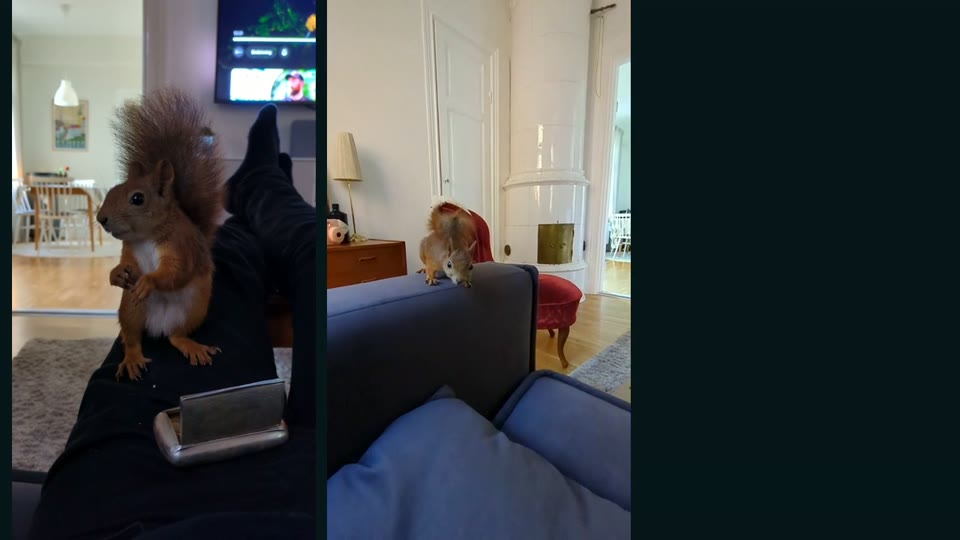
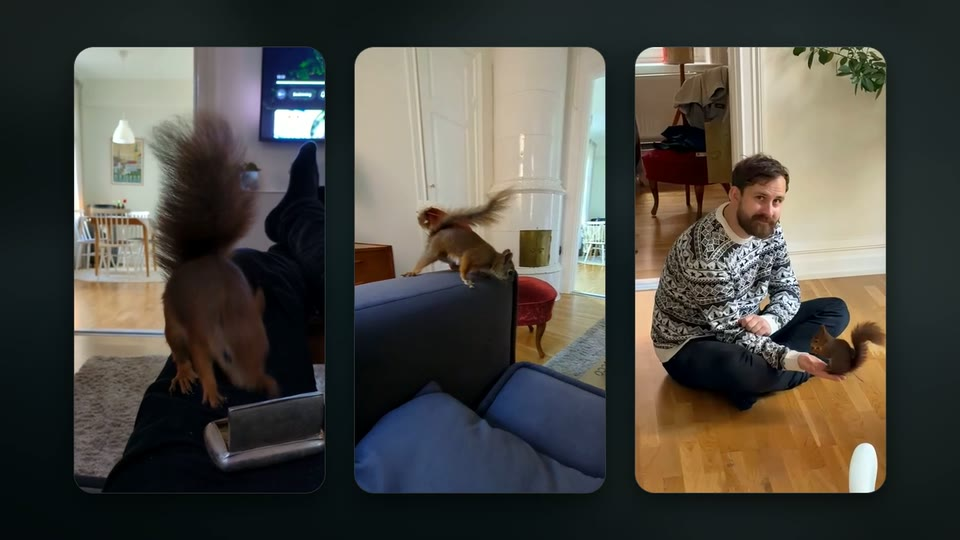
Film: LED-skärmen i mitten av 0.4 och korten i 1.2
0.4 lägger delarna och LED-skärmen i ett rutnät 7 x 7 med skärmen i
mitten. Skärmen vaknar uppe på toppen, golvets pixlar runt den tänds och
kameran dyker rakt ner i den inför 0.5. Klippet från 0.3 är fortfarande
osynligt. 1.2 visar de tre mobilklippen som kort med rundade hörn, skugga
och tunn kant (verktyg/tre_rutor.py), med ett mjukt klick per kort.

diff --git a/trailer/storyboard/storyboard.html b/trailer/storyboard/storyboard.html
@@ -134,7 +134,7 @@ td:first-child { color: var(--fg); white-space: nowrap; font-family: var(--mono)
 <div class="wrap">
 
 <header class="top">
-  <div class="eyebrow">Storyboard v25 · Lennart släpper nöten</div>
+  <div class="eyebrow">Storyboard v26 · LED-skärmen i mitten</div>
   <h1>Projekt <span>Lennart</span></h1>
   <p class="lead">En helt orimlig mängd teknik, redovisad med fullt allvar, för att en ekorre ska få äta sin nöt i fred.</p>
   <div class="facts">
@@ -387,13 +387,13 @@ const ACTS = [
   ['0.1','0:00','5 s','Skärmen','o1','cg','Börja lugnt och seriöst. Väcka en fråga innan något har förklarats.','En liten skärm i en vit ram på röd träpanel: VÄNTAR PÅ BESÖKARE…','85 mm. Börjar snett från sidan, lätt lutad, och sveper i en båge runt fasaden medan den rätar upp sig.','Varmt släpljus från höger, svag kall fyllning.','Kameran rör sig, skärmen står still.','Samma båge fortsätter uppåt längs fasaden tills gluggen ligger där skärmen låg.','"Okej, så det här är ett helt vanligt autonomt säkerhetssystem,"','Svagt elektriskt brum. Dämpat fågelkvitter.','3D från GLB + skarm-vantar.png'],
   ['0.2','0:05','2,6 s','Gluggen och linsen','o2','cg','Systemets öga.','Den runda gluggen i gaveln, med kameramodulen där inne.','Kameran åker rakt in mot linsen tills det mörka glaset fyller bilden.','En liten kall reflex i glaset.','Inåkning som accelererar.','Klipp i mörkret till mekaniken. 0.3 börjar med doseringshjulets cirkel stor mitt i bild, där gluggen var.','"med artspecifik åtkomstkontroll,"','Ett lågt klick, som en slutare.','3D från GLB'],
   ['0.3','0:08','2,6 s','Nötens väg','o3','cg','Visa mekaniken som ett urverk, utan att visa huset.','Mekaniken i full färg: magasinet med nötter, hjulet, rännan, luckan och skålen. Resten av huset är mörkt glas där bara kanterna skymtar, och huset står på samma släckta LED-golv som i 0.4. Luckan fälls upp, hjulet vrider fram en hasselnöt och den rullar ner i skålen.','Låst vid hjulet: kameran rullar med doseringshjulet, så att hjulet och nöten står still medan magasinet och glashuset snurrar runt dem. När nöten släpper rätar bilden upp sig och följer nöten ner i skålen.','Varm nyckel på mekaniken. Glaset och bakgrunden i samma gröna som skärmen och golvet.','Luckan öppnas först, sedan vrids hjulet 130° och nöten rullar.','Osynligt klipp: kameran tiltar ner mot golvet tills bara pixlarna syns och börjar stiga. 0.4 tar vid i exakt samma läge, så att det känns som en enda kameraåkning.','"motoriserad precisionsdosering"','Servosurr. Nöten som rullar och landar.','3D från GLB. Ny version, v6 (variant H, låst vid hjulet).'],
-  ['0.4','0:10','4,3 s','Fyrtioåtta delar','o4','cg','Storleken på vansinnet, utan att avslöja formen.','Alla fyrtioåtta delar ligger platt i ett rutnät, åtta gånger sex, en del per ruta. Golvet är en enorm släckt LED-skärm med samma mörkgröna pixlar som skärmen i huset. Husets stomme ligger på rygg som en del bland de andra. Man ser mängden men kan inte pussla ihop huset.','Tar vid exakt där 0.3 slutade, tätt över golvets pixlar mitt i rutnätet, stiger rakt upp och fortsätter vrida sig tills hela rutnätet syns.','Varmt sidoljus, kall fyllning. Golvets pixlar glöder svagt.','En enda jämn åkning. Delarna ligger still.','Kameran dyker rakt ner mot en tom ruta tills golvets pixlar fyller bilden. De blir pixlarna på skärmen i 0.5, som tänds medan kameran backar ut.','"och fyrtioåtta väldigt noggrant tillverkade komponenter. Inget konstigt."','En låg ton växer.','3D från GLB + delar.json. Ny version, v7 (variant D).'],
+  ['0.4','0:10','4,3 s','Fyrtioåtta delar','o4','cg','Storleken på vansinnet, utan att avslöja formen.','Alla fyrtioåtta delar ligger platt i ett rutnät, sju gånger sju, en sak per ruta. I mittenrutan ligger LED-skärmen. Golvet är en enorm släckt LED-skärm med samma mörkgröna pixlar som skärmen i huset. Husets stomme ligger på rygg som en del bland de andra. Man ser mängden men kan inte pussla ihop huset.','Tar vid exakt där 0.3 slutade, tätt över golvets pixlar i hörnet intill mittenrutan, stiger rakt upp och fortsätter vrida sig tills hela rutnätet syns med LED-skärmen i mitten.','Varmt sidoljus, kall fyllning. Golvets pixlar glöder svagt. När skärmen vaknar tänds golvets pixlar runt den i ett mjukt grönt sken.','En enda jämn åkning. Delarna ligger still.','Kameran dyker rakt ner i LED-skärmen tills dess mörka pixlar fyller bilden. De blir pixlarna på skärmen i 0.5, som tänds medan kameran backar ut.','"och fyrtioåtta väldigt noggrant tillverkade komponenter. Inget konstigt."','En låg ton växer.','3D från GLB + delar.json. Ny version, v7 (variant D).'],
   ['0.5','0:15','3 s','Verifierar','o5','cg','Pausen.','Tätt på skärmen i sin vita ram mot röd panel, som i första bilden. Skärmen visar VERIFIERAR…','Långsam inåkning rakt mot skärmen.','Lågt varmt ljus, svag kall fyllning.','Nästan stilla.','Kameran åker in i texten tills skärmens pixlar fyller bilden, och skärmen släcks. Titeln tänds i samma pixelrutnät.','Tystnad, två sekunder.','Tre korta pip. Tvärt tyst.','3D från GLB + skarm-verifierar.png. Ny version, v4.'],
   ['0.6','0:18','2,8 s','Titel','','title','Leverera skämtet och namnet.','Svart. PROJEKT LENNART i skärmens typsnitt, med ett ekollon i pixlar till vänster.','Stilla.','—','Bokstäverna tänds en i taget.','Rakt klipp på musikens slag till balkongen i juli.','"Det vaktar nötter."','Tystnad under repliken.','Grafik'],
  ]],
  ['1 · Lennart', '0:20–0:42', 'Klippt av ditt filmmaterial, kortas till fyra klipp', [
   ['1.1','0:20','5,5 s','Balkongen i juli','a1_1','real','Etablera platsen och den nya grannen.','Uteplatsen en sommardag. Lennart springer längs räcket.','Mobilfilm beskuren till liggande. Svag inzoomning.','Mulet dagsljus.','Lennart rör sig längs räcket.','Rakt klipp i röstens paus.','"Men lite bakgrund först. I somras började en ekorre hälsa på hemma hos oss."','Sommarljud, lätt musik börjar.','PXL_20260702'],
-  ['1.2','0:26','5 s','Nästan varje dag','a1_2','real','Visa att besöken blev vardag.','Tre stående rutor som dyker upp en i taget: soffryggen, knät, golvet.','Tre mobilklipp i höjdformat sida vid sida.','Blandat inomhusljus.','En ruta på "då och då", två till på "nästan varje dag".','Rakt klipp till närbilden.','"Först bara då och då, men numera dyker han upp nästan varje dag."','Ett mjukt klick per ruta.','PXL_20260708, 1000007512, VID-20261114'],
+  ['1.2','0:26','5 s','Nästan varje dag','a1_2','real','Visa att besöken blev vardag.','Tre stående kort med rundade hörn, mjuk skugga och tunn ljus kant som glider upp ett i taget: soffryggen, knät, golvet. Bakom dem en mörk, oskarp bakgrund i filmens blågröna ton.','Tre mobilklipp i höjdformat sida vid sida.','Blandat inomhusljus.','En ruta på "då och då", två till på "nästan varje dag".','Rakt klipp till närbilden.','"Först bara då och då, men numera dyker han upp nästan varje dag."','Ett mjukt klick per ruta.','PXL_20260708, 1000007512, VID-20261114'],
   ['1.3','0:31','3 s','Namnet','a1_3','real','Ge honom ett namn och ett ansikte.','Extrem närbild: han nosar på kameran. Namnskylt i skärmens stil.','Beskuren närbild med svag inzoomning.','Dagsljus från fönster.','Skylten tänds på "Lennart".','Rakt klipp.','"Vi gav honom namnet Lennart."','Ett klingande ljud när skylten tänds.','PXL_20260708 + grafik'],
   ['1.4','0:34','8 s','Nötter och vatten','a1_4','real','Visa omsorgen. Sätta upp fatet som fåglarna snart tömmer.','Han sitter på någons ben och äter.','Beskuren till liggande, svag inzoomning.','Mjukt inomhusljus.','Han äter.','Lennart öppnar tassarna och släpper nöten. Kameran tiltar snabbt ner efter den, bilden glider ut i skuggan och nöten faller vidare genom mörkret. Klippet sker mitt i fallet, och i 2.1 landar samma nöt bland de andra på fatet. Sista sekunden, där tassarna öppnas, är AI-genererad med Higgsfield (Seedance 2.5) från en ruta ur mobilklippet. I tilten tar en renderad hasselnöt över.','"Redan från första besöket har vi bjudit på nötter, och sen dess står det alltid käk och vatten utanför."','Knaprande.','1000007512'],
  ]],
@@ -432,8 +432,8 @@ const ACTS = [
 ];
 // nr -> kort notering om vilken version filmen är
 const FILM = {
- "0.1": "Ny version, v5: skärmen har synliga pixlar.", "0.2": "Ur öppning v2, godkänd bild. Din provinspelning som röst.", "0.3": "Ny version, v6: låst vid hjulet, grön färgvärld, landar på golvet i ett osynligt klipp till 0.4.", "0.4": "Ny version, v8 (variant D): rutnät på ett golv som är en LED-skärm. Börjar i pixlarna där 0.3 slutar och dyker in i pixlarna igen inför 0.5.", "0.5": "Ny version, v5: pixlar, punkter på pipen, inåkning i pixlarna.", "0.6": "Ny version: titeln med ekollonet, nu 2,8 s. Musiken börjar 1 s senare så att den ligger kvar mot resten.",
- "1.1": "Ur del 1 v1, klippt efter din inspelning.", "1.2": "Ur del 1 v1, klippt efter din inspelning.", "1.3": "Ur del 1 v3. Namnskylten kommer tidigare och ligger kvar in i nästa klipp.", "1.4": "Ur del 1. Nytt slut: Lennart öppnar tassarna och släpper nöten (genererat med Higgsfield), kameran följer den ner till 2.1.",
+ "0.1": "Ny version, v5: skärmen har synliga pixlar.", "0.2": "Ur öppning v2, godkänd bild. Din provinspelning som röst.", "0.3": "Ny version, v6: låst vid hjulet, grön färgvärld, landar på golvet i ett osynligt klipp till 0.4.", "0.4": "Ny version, v9: rutnätet är sju gånger sju med LED-skärmen i mitten. Börjar i golvets pixlar där 0.3 slutar, stiger, skärmen vaknar och kameran dyker rakt ner i den inför 0.5.", "0.5": "Ny version, v5: pixlar, punkter på pipen, inåkning i pixlarna.", "0.6": "Ny version: titeln med ekollonet, nu 2,8 s. Musiken börjar 1 s senare så att den ligger kvar mot resten.",
+ "1.1": "Ur del 1 v1, klippt efter din inspelning.", "1.2": "Ny presentation: korten byggs med film/verktyg/tre_rutor.py. Samma klipp och tider som förut, nu med ett mjukt klick per kort.", "1.3": "Ur del 1 v3. Namnskylten kommer tidigare och ligger kvar in i nästa klipp.", "1.4": "Ur del 1. Nytt slut: Lennart öppnar tassarna och släpper nöten (genererat med Higgsfield), kameran följer den ner till 2.1.",
  "2.1": "Ny version, v8: nöten från 1.4 faller ner och landar på fatet.", "2.2": "Ur v3, oförändrad.", "2.3": "Ur v3, oförändrad.", "2.4": "Ur v3, oförändrad.", "2.5": "Ny version, v5: nej-signalen slår ner i fatet, som snurrar ut med ett porslinsklirr.", "2.6": "Ny version, v6: nötterna vilar, kameran lyfter i slutet.",
  "6.1": "Ny version, v2: byggklippen i hörnen, i takt med musiken (platshållare).", "6.2": "Ny version, v2: byggklippen går när kameran åker nära (platshållare).", "6.3": "Första renderingen, v1. Rösten klipps inte längre i slutet av \"honom\".", "3.1": "Ny version, v6: ett litet munstycke under fönstret projicerar ritningen, med mjuk rörelse.", "3.2": "Ny version, v4: snabb panorering i slutet.",
  "4.1": "Ny version, v6: konturer och allt det andra som köptes längs kanterna.", "4.2": "Ny version, v6: fem filamentfärger, in i den röda rullens nav i slutet. Det svarta filamentet är blankare så att det syns.", "5.2": "Platshållare: utskriftsväggen med dina tre stillbilder.", "5.3": "Platshållare: utskriftsväggen med dina tre stillbilder."

diff --git a/trailer/film/oppning.py b/trailer/film/oppning.py
@@ -294,9 +294,11 @@ if VAR04 == 'A':   # alla delar pa en lang rad langs x, kortsidan i fardriktning
     LINE_X1 = POS['skarmram'].x; POS['kropp'] = Vector((LINE_X1 - 0.06 - KL, -KD / 2, 0)); off = x_ / 2   # linjen centreras kring origo, dar ljuset ar
     for n in POS: POS[n].x -= off
     LINE_X1 -= off; LAYOUT_X0, LAYOUT_X1 = -off, x_ - off; print('LINJEN', round(x_, 2), 'm', flush=True)
-if VAR04 == 'D':   # 48 delar i ett rutnat 8 x 6, en del per ruta
+SKMOD = next((o.name for o in ELEK if o.name.startswith('E_skarmmodul')), None)
+if VAR04 == 'D':   # husets 48 delar och LED-skarmen i ett rutnat 7 x 7, en sak per ruta. Skarmen ligger i mittenrutan och kameran dyker ner i den
     alla = ['kropp'] + [n for g in ('Kropp', 'Tak', 'Bas', 'Skål', 'Inredning') for n in sorted(GD[g], key=lambda n: -BLOCK[n][0] * BLOCK[n][1])]
-    BLOCK['kropp'] = (KL, KD); CELL = max(max(BLOCK[n]) for n in alla) + 0.05; GX8, GY6 = 8, 6
+    if SKMOD: alla.insert(len(alla) // 2, SKMOD)
+    BLOCK['kropp'] = (KL, KD); CELL = max(max(BLOCK[n]) for n in alla) + 0.05; GX8, GY6 = (7, 7) if SKMOD else (8, 6)
     for i, n in enumerate(alla):
         cx, cy = (i % GX8 - (GX8 - 1) / 2) * CELL, ((GY6 - 1) / 2 - i // GX8) * CELL; w, d = BLOCK[n]; POS[n] = Vector((cx - w / 2, cy - d / 2, 0))
     LAYOUT_X0, LAYOUT_X1, LAYOUT_Y0, LAYOUT_Y1 = -GX8 / 2 * CELL, GX8 / 2 * CELL, -GY6 / 2 * CELL, GY6 / 2 * CELL; print('RUTNAT', round(CELL, 3), flush=True)
@@ -347,7 +349,18 @@ if VAR04 == 'D':
     mm = nt_.nodes.new('ShaderNodeMath'); mm.operation = 'MULTIPLY'; nt_.links.new(kant[0].outputs[0], mm.inputs[0]); nt_.links.new(kant[1].outputs[0], mm.inputs[1])
     ma = nt_.nodes.new('ShaderNodeMath'); ma.operation = 'MULTIPLY_ADD'; ma.inputs[1].default_value = 0.75; ma.inputs[2].default_value = 0.25; nt_.links.new(mm.outputs[0], ma.inputs[0])
     PIX_S = nt_.nodes.new('ShaderNodeMath'); PIX_S.operation = 'MULTIPLY'; PIX_S.inputs[1].default_value = 0.5; nt_.links.new(ma.outputs[0], PIX_S.inputs[0])
-    pp.inputs['Emission Color'].default_value = (0.024, 0.07, 0.043, 1); nt_.links.new(PIX_S.outputs[0], pp.inputs['Emission Strength'])
+    pp.inputs['Emission Color'].default_value = (0.024, 0.07, 0.043, 1)
+    # ett mjukt sken av tanda pixlar runt LED-skarmen i mitten: 1 + HALO_G * exp(-r^2 / s^2), r fran HALO_X/HALO_Y i golvets koordinater
+    HALO_X = nt_.nodes.new('ShaderNodeValue'); HALO_Y = nt_.nodes.new('ShaderNodeValue'); HALO_G = nt_.nodes.new('ShaderNodeValue'); HALO_G.outputs[0].default_value = 0.0
+    _dx = nt_.nodes.new('ShaderNodeMath'); _dx.operation = 'SUBTRACT'; nt_.links.new(sx_.outputs['X'], _dx.inputs[0]); nt_.links.new(HALO_X.outputs[0], _dx.inputs[1])
+    _dy = nt_.nodes.new('ShaderNodeMath'); _dy.operation = 'SUBTRACT'; nt_.links.new(sx_.outputs['Y'], _dy.inputs[0]); nt_.links.new(HALO_Y.outputs[0], _dy.inputs[1])
+    _x2 = nt_.nodes.new('ShaderNodeMath'); _x2.operation = 'MULTIPLY'; nt_.links.new(_dx.outputs[0], _x2.inputs[0]); nt_.links.new(_dx.outputs[0], _x2.inputs[1])
+    _r2 = nt_.nodes.new('ShaderNodeMath'); _r2.operation = 'MULTIPLY_ADD'; nt_.links.new(_dy.outputs[0], _r2.inputs[0]); nt_.links.new(_dy.outputs[0], _r2.inputs[1]); nt_.links.new(_x2.outputs[0], _r2.inputs[2])
+    _ex = nt_.nodes.new('ShaderNodeMath'); _ex.operation = 'MULTIPLY'; _ex.inputs[1].default_value = -1 / 0.22 ** 2; nt_.links.new(_r2.outputs[0], _ex.inputs[0])
+    _e = nt_.nodes.new('ShaderNodeMath'); _e.operation = 'EXPONENT'; nt_.links.new(_ex.outputs[0], _e.inputs[0])
+    _g = nt_.nodes.new('ShaderNodeMath'); _g.operation = 'MULTIPLY_ADD'; nt_.links.new(_e.outputs[0], _g.inputs[0]); nt_.links.new(HALO_G.outputs[0], _g.inputs[1]); _g.inputs[2].default_value = 1.0
+    _hs = nt_.nodes.new('ShaderNodeMath'); _hs.operation = 'MULTIPLY'; nt_.links.new(PIX_S.outputs[0], _hs.inputs[0]); nt_.links.new(_g.outputs[0], _hs.inputs[1])
+    nt_.links.new(_hs.outputs[0], pp.inputs['Emission Strength'])
     FLOOR_D = pm
 # skanningen (E): en tunn gron linje pa golvet och ett smalt gront ljus som sveper over delarna
 if VAR04 == 'E':
@@ -396,7 +409,10 @@ WE0 = [n for n in wn.nodes if n.type == 'VALTORGB'][0].color_ramp.elements[0]; W
 OVERG = VAR03 == 'H' and VAR04 == 'D'   # det osynliga klippet: 0.3 landar rakt ovanfor golvet, 0.4 borjar i exakt samma lage och stiger
 H0 = 0.06; FLOOR_P4 = FLOOR.location.copy()
 D_START = Vector(((LAYOUT_X0 + LAYOUT_X1) / 2, (LAYOUT_Y0 + LAYOUT_Y1) / 2, GROUND))      # mitt i rutnatet, i hornet mellan fyra rutor dar golvet ar tomt; 0.4 stiger rakt upp harifran
-P3 = Vector((0.62, -0.012, -0.0305))                                                        # platsen pa golvet framfor huset dar 0.3 landar
+if VAR04 == 'D' and SKMOD:   # mittenrutan har nu skarmen, sa 0.4 borjar i hornet snett nedanfor den. Avstandet ar helt antal golvpixlar, sa att pixlarna i 0.3 ar desamma
+    _h = round(CELL / 2 / PIX) * PIX; D_START = D_START + Vector((_h, -_h, 0))
+D_SKARM = VAR04 == 'D' and SKMOD is not None and SKARM_B is not None   # 0.4 slutar i LED-skarmen i stallet for i golvets pixlar
+P3 = Vector((0.62, -0.012, -0.0305))                                                     # platsen pa golvet framfor huset dar 0.3 landar
 FLOOR_P3 = FLOOR_P4 + (P3 - D_START)                                                        # golvet flyttas sa att pixlarna under P3 ar exakt de under D_START
 def YAW(t): return math.radians(90 - 68 * sm(t, 8.9, T_D + 2.2))                           # kamerans vridning, hojd och brannvidd ar gemensamma kurvor over klippet,
 def HUP(t): return H0 * (2.9 / H0) ** sm(t, 9.1, 10.6)                                      # sa att rorelsen fortsatter utan avbrott (hojden stiger med jamn upplevd fart)
@@ -444,6 +460,7 @@ def cam03(t, tm, p):   # kameran i varianterna av 0.3
 
 def state(t):
     cam_d.type = 'PERSP'; cam_d.dof.use_dof = True; FLOOR.location = FLOOR_P4; WE0.color = WE0_C
+    if VAR04 == 'D': HALO_G.outputs[0].default_value = 0.0
     for l, e_, p_ in zip(L['golv'], GOLV_E, GOLV_P): l.location = p_; l.data.energy = e_
     for l, e_ in zip(L['snitt'], SNITT_E): l.data.energy = e_
     for o in ELEK_ALL + NUMMER + VAROBJ: o.hide_render = not (T_D <= t < T_E)   # elektroniken och numren finns bara i 0.4
@@ -491,6 +508,12 @@ def state(t):
         for l, e0 in zip(L['golv'], GOLV_E): l.data.energy = e0 * (0.3 if VAR04 == 'E' else 1.0)
         if VAR04 == 'D':
             for o in ELEK_ALL: o.hide_render = True
+            if D_SKARM:   # bara LED-skarmen syns av elektroniken. Den vaknar nar kameran ar som hogst och lyser in i klippet (slutbilden ar dess morka pixlar under texten, som 0.5 borjar)
+                _sk = bpy.data.objects[SKMOD]
+                for o in [_sk] + list(_sk.children_recursive): o.hide_render = False
+                SKARM_B.data.materials[0] = SCR['vantar'] if (u > 1.55 and not (1.6 < u < 1.66) and not (1.74 < u < 1.77)) else SCR['av']
+                _lc = FLOOR.matrix_world.inverted() @ SKARM_B.matrix_world.translation; HALO_X.outputs[0].default_value = _lc.x; HALO_Y.outputs[0].default_value = _lc.y
+                HALO_G.outputs[0].default_value = 5.0 * sm(u, 1.6, 2.3)    # golvets pixlar runt skarmen tands strax efter den
         if VAR04 in 'KBE':
             ext = sm(u, 0.0, 1.15); rise = sm(u, 0.55, 2.0); pan = sm(u, 0.6, 2.6)
             e_in = Vector((K_X0 + 0.04 + (K_X1 + 0.16 - K_X0 - 0.04) * ext, K_Y, K_Z + 0.03 * ext))
@@ -533,17 +556,20 @@ def state(t):
             if VAR04 == 'C': start = Vector(((K_X0 + K_X1) / 2, K_Y, GROUND)); H = 1.35; MAL = RAM_C; slut_h = 0.045; slut_l = 85
             elif OVERG: start = D_START; H = 2.9; MAL = Vector((LAYOUT_X1 + 0.3, LAYOUT_Y0 - 0.3, GROUND)); slut_l = 50; slut_h = 110 * PIX * slut_l / 36
             else: start = POS['kropp'] + Vector((KL / 2, KD / 2, GROUND)); H = 2.9; MAL = Vector((LAYOUT_X1 + 0.3, LAYOUT_Y0 - 0.3, GROUND)); slut_l = 50; slut_h = 110 * PIX * slut_l / 36
+            if D_SKARM:   # malet ar LED-skarmen i mitten: kameran stiger, centrerar skarmen och dyker rakt ner i den, och slutar som B pa den morka delen under texten
+                MAL = SKARM_B.matrix_world.translation + Vector((0, -0.011, 0)); mid = Vector((MAL.x, MAL.y, GROUND)); slut_l = 85; slut_h = MAL.z - GROUND + 0.055
             upp_ = sm(u, 0.1, 2.0); dyk = acc(u, 2.25, 3.38, 2.0); yaw = math.radians(22) * sm(u, 0.2, 2.2) * (1 - sm(u, 2.3, 3.2))
             c_ = mix(start, mid, sm(u, 0.1, 1.9)); c_ = mix(c_, MAL, sm(u, 2.1, 3.0))
             if OVERG: h = HUP(t); c_ = mix(start, mid, sm(u, 0.35, 1.9)); c_ = mix(c_, MAL, sm(u, 2.1, 3.0))   # stiger med jamn upplevd fart, sidled forst nar kameran kommit upp
             else: h = 0.32 + (H - 0.32) * upp_
-            h = h + (slut_h - h) * dyk
-            if OVERG: yaw = YAW(t) * (1 - sm(u, 2.3, 3.2))
+            if D_SKARM: dyk = sm(u, 2.2, 3.36); h = h * (slut_h / h) ** dyk   # ner i jamn upplevd fart (som uppat) och mjukt in pa skarmens morka pixlar
+            else: h = h + (slut_h - h) * dyk
+            if OVERG: yaw = YAW(t) * (1 - sm(u, 2.3, 3.2)) + (math.radians(2.5) * sm(u, 2.3, 3.2) if D_SKARM else 0)   # samma lutning som 0.5 borjar med
             eye = Vector((c_.x, c_.y, GROUND + h)); lut = 1.0 if OVERG else sm(u, 0.0, 0.45)
             f_ = mix(Vector((0, 0.75, -0.66)), Vector((0, 0, -1)), lut).normalized()        # overgang in: tilten fran 0.3 fortsatter ner till rakt ovanifran
             upp = Vector((-math.sin(yaw), math.cos(yaw), 0)) * lut + Vector((0, 0, 1)) * (1 - lut); rt_ = f_.cross(upp).normalized(); up_ = rt_.cross(f_)
             CAM.location = eye; CAM.rotation_euler = Matrix((rt_, up_, -f_)).transposed().to_euler()
-            cam_d.lens = (LENS_G(t) if OVERG else 30) + (slut_l - 30) * dyk; cam_d.dof.aperture_fstop = 5.6; cam_d.dof.focus_distance = max(0.05, eye.z - GROUND)
+            cam_d.lens = (LENS_G(t) if OVERG else 30) + (slut_l - 30) * dyk; cam_d.dof.aperture_fstop = 5.6; cam_d.dof.focus_distance = max(0.05, eye.z - GROUND - ((MAL.z - GROUND) * dyk if D_SKARM else 0))
     else:            # 0.5 tatt pa skarmen: VERIFIERAR...
         lights('makro'); k = out(t, T_E, END, 1.8); SCREEN.data.materials[0] = SCR['av' if (t >= END - 0.06 or t < T_E + 0.3) else dots(t)]
         ent = out(t, T_E, T_E + 1.1, 2.6)       # overgang in fran 0.4: borjar tatt mot den slackta skarmen och backar ut ur den, skarmen tands

diff --git a/trailer/film/verktyg/tre_rutor.py b/trailer/film/verktyg/tre_rutor.py
@@ -1,0 +1,57 @@
+# Projekt Lennart - klipp 1.2 "Nastan varje dag": tre mobilklipp i hojdformat som kort bredvid varandra.
+# Korten har rundade horn, en mjuk skugga och en tunn ljus kant. De glider upp och tonar fram ett i taget
+# (mitten, vanster, hoger) pa samma tider som forut. Bakgrunden ar mittenklippet, kraftigt oskarpt och mork i filmens blagrona ton.
+# Kor:  <blender-python> film/verktyg/tre_rutor.py <ut.mp4> [ljud fran.mp4]
+import subprocess, sys, os, numpy as np
+HERE = os.path.dirname(os.path.abspath(__file__)); P = os.path.abspath(os.path.join(HERE, '..', '..'))
+UT = sys.argv[1]; LJUD = sys.argv[2] if len(sys.argv) > 2 else None
+W, H, FPS, DUR = 1280, 720, 25, 3.92; N = round(DUR * FPS)
+CW, CH, R, GAP = 334, 594, 26, 40                         # kortet i 9:16, hornradie, mellanrum
+X0 = (W - 3 * CW - 2 * GAP) // 2; Y0 = (H - CH) // 2
+GR = 'eq=contrast=1.06:saturation=1.1'
+# (fil, start i klippet, kortets plats 0-2 fran vanster, tid da kortet kommer)
+KORT = [('PXL_20260708_101333609.TS.mp4', 12.6, 1, 0.0), ('1000007512.mp4', 14.0, 0, 1.52), ('VID-20261114-WA0000~3.mp4', 8.6, 2, 2.56)]
+
+def las(args, w, h):
+    r = subprocess.run(['ffmpeg', '-v', 'error', *args, '-frames:v', str(N), '-f', 'rawvideo', '-pix_fmt', 'rgb24', '-'], capture_output=True, check=True).stdout
+    a = np.frombuffer(r, np.uint8).reshape(-1, h, w, 3)
+    if len(a) < N: a = np.concatenate([a, np.repeat(a[-1:], N - len(a), 0)])
+    return a
+def kort(f, ss):   # klippet i kortets storlek med en langsam inzoomning, som de andra mobilklippen i akt 1
+    return las(['-ss', str(ss), '-t', str(DUR + 0.2), '-i', os.path.join(P, f), '-vf', f"fps={FPS},{GR},scale=w='2*trunc({CW // 2}*(1+0.03*t))':h=-2:eval=frame,crop={CW}:{CH}"], CW, CH)
+def mask(w, h, r):   # rundad rektangel med mjuk kant (en pixel)
+    y, x = np.mgrid[0:h, 0:w] + 0.5
+    dx = np.maximum(np.abs(x - w / 2) - (w / 2 - r), 0); dy = np.maximum(np.abs(y - h / 2) - (h / 2 - r), 0)
+    return np.clip(r - np.hypot(dx, dy) + 0.5, 0, 1).astype(np.float32)
+def blur(a, s):
+    k = np.exp(-0.5 * (np.arange(-3 * s, 3 * s + 1) / s) ** 2); k /= k.sum()
+    a = np.apply_along_axis(lambda v: np.convolve(v, k, 'same'), 0, a); return np.apply_along_axis(lambda v: np.convolve(v, k, 'same'), 1, a)
+
+M = mask(CW, CH, R)
+KANT = np.clip(mask(CW + 2, CH + 2, R + 1) - np.pad(M, 1), 0, 1)          # en pixel bred ljus kant runt kortet
+PADS = 60; SKUGGA = blur(np.pad(M, PADS), 18) * 0.62                      # skuggan, nedforskjuten
+# bakgrunden: mittenklippet oskarpt, morkt och avfargat, blandat med filmens blagrona botten och en vinjett
+bg = las(['-ss', '12.6', '-t', str(DUR + 0.2), '-i', os.path.join(P, KORT[0][0]), '-vf', f'fps={FPS},scale={W}:-2,crop={W}:{H},gblur=sigma=50,eq=saturation=0.4'], W, H).astype(np.float32)
+yy, xx = np.mgrid[0:H, 0:W]; rr = np.hypot((xx - W / 2) / (W / 2), (yy - H / 2) / (H / 2))
+BOTTEN = (np.array([7, 21, 26], np.float32) * (1.35 - 0.55 * np.clip(rr, 0, 1.4))[..., None])
+VINJ = (1 - 0.35 * np.clip(rr - 0.3, 0, 1) ** 1.5)[..., None]
+KLIPP = [(kort(f, ss), X0 + plats * (CW + GAP), b) for f, ss, plats, b in KORT]
+
+enc = subprocess.Popen(['ffmpeg', '-v', 'error', '-y', '-f', 'rawvideo', '-pix_fmt', 'rgb24', '-s', f'{W}x{H}', '-r', str(FPS), '-i', '-',
+                        *(['-i', LJUD, '-map', '0:v', '-map', '1:a', '-c:a', 'copy', '-shortest'] if LJUD else []),
+                        '-c:v', 'libx264', '-crf', '16', '-preset', 'slow', '-pix_fmt', 'yuv420p', '-movflags', '+faststart', UT], stdin=subprocess.PIPE)
+for n in range(N):
+    t = n / FPS; im = (bg[n] * 0.22 + BOTTEN * 0.85) * VINJ
+    for frames, x, b in KLIPP:
+        p = min(max((t - b) / 0.55, 0), 1)
+        if p <= 0: continue
+        e = 1 - (1 - p) ** 3; a = min(max((t - b) / 0.32, 0), 1); y = Y0 + round(34 * (1 - e))
+        sy, sx = y - PADS + 14, x - PADS                                    # skuggan
+        y1, y2 = max(sy, 0), min(sy + SKUGGA.shape[0], H)
+        im[y1:y2, sx:sx + SKUGGA.shape[1]] *= (1 - SKUGGA[y1 - sy:y2 - sy] * a)[..., None]
+        k = (M * a)[..., None]; reg = im[y:y + CH, x:x + CW]
+        im[y:y + CH, x:x + CW] = reg * (1 - k) + frames[n].astype(np.float32) * k
+        kr = (KANT * a * 0.16)[..., None]; reg = im[y - 1:y + CH + 1, x - 1:x + CW + 1]
+        im[y - 1:y + CH + 1, x - 1:x + CW + 1] = reg * (1 - kr) + 255 * kr
+    enc.stdin.write(np.clip(im, 0, 255).astype(np.uint8).tobytes())
+enc.stdin.close(); enc.wait(); print('klar', UT, N, 'rutor')

diff --git a/trailer/film/LAGE.md b/trailer/film/LAGE.md
@@ -31,7 +31,7 @@ Senast uppdaterad 2026-11-16. Skriven för att arbetet ska kunna fortsätta på 
 | Skarv | Hur |
 |---|---|
 | 0.3 → 0.4 | Osynligt klipp: huset står på samma LED-golv som i 0.4. 0.3 tiltar ner mot golvet tills bara pixlarna syns och börjar stiga, och 0.4 tar vid i exakt samma läge mitt i rutnätet. Höjd, brännvidd och vridning är gemensamma kurvor över klippet (`HUP`, `LENS_G`, `YAW` i `oppning.py`), och golvet i 0.3 är flyttat så att pixlarna under kameran är desamma. |
-| 0.4 → 0.5 | In i pixlarna: kameran dyker rakt ner mot en tom ruta tills golvets pixlar fyller bilden, och 0.5 backar ut ur skärmens pixlar medan den tänds |
+| 0.4 → 0.5 | In i LED-skärmen: kameran dyker rakt ner i LED-skärmen mitt i rutnätet tills dess mörka pixlar fyller bilden, och 0.5 backar ut ur skärmens pixlar medan den tänds |
 | 0.5 → 0.6 | In i skärmens pixlar, titeln tänds i samma rutnät (`verktyg/titel.py`). En hasselnöt i pixlar står till vänster om texten och tänds strax före den. |
 | 1.4 → 2.1 | Lennart tappar nöten. Kameran tiltar ner efter den, bilden glider ut i skuggan och klippet sker mitt i fallet. I 2.1 landar samma nöt bland de andra på fatet (`verktyg/fall_14.py`, `akt_plan.py`) |
 | 2.6 → 3.1 | Kameran tittar upp förbi molnet, 3.1 kommer uppifrån ner mot fönstret |
@@ -69,6 +69,8 @@ Scener som väntar på riktigt material står i listan `VANTAR` i `storyboard/st
 - **Munstycket i designen:** `akt_design.py` låter ett litet munstycke växa fram ur chattfönstrets underkant 5,3–5,9 s. Det är varmgrått som fönstret med en tunn ring i Claudes orange. Det vrider sig mjukt mot pappret, följer linjen som sveper över det (ljuset kommer ur spetsen), vrids tillbaka och krymper bort 9,45–9,95 s. Alla rörelser börjar och slutar mjukt (`sms`). Formen väljs med `LENNART_MUNSTYCKE_VARIANT` (A kon, B lins, C skrivarhuvud, D kapsel, D är vald) och `LENNART_MUNSTYCKE=0` stänger av det.
 - **Delarna i 0.4:** `oppning.py` lägger varje lös bit plant i sin tunnaste riktning (den sida av höljet som ger lägst höjd), med långsidan längs x. Delarna sorteras i sex grupper i två rader: stomme, tak och bas bak, skål, elektronik och inredning fram. Skärmramen, som kameran åker ner genom, ligger i inredningen längst till höger. Husets stomme ligger på rygg som ett rör till vänster, och 0.4 börjar inne i den. Elektroniken är samma generiska modeller som i inköpen och läses från `elektronik.blend`, som görs med `blender -b -P verktyg/elektronik_export.py`. Ändras modellerna i `akt_inkop.py` ska exporten köras om. Numren 01–48 bredvid husets delar stängs av med `LENNART_NUMMER=0`.
 - **Släppet i 1.4 (17/11):** sista sekunden av 1.4 är genererad med Higgsfield (Seedance 2.5) från ruta 176 ur mobilklippet (`higgsfield_14/start_176.png` → `higgsfield_14/seedance.mp4`). Rutorna tas ut med `ffmpeg -i higgsfield_14/seedance.mp4 -vf scale=1280:720 -q:v 2 -start_number 0 higgsfield_14/gen/%03d.jpg`. `verktyg/fall_14.py` använder dem från ruta 177, skalade 2,1 % och flyttade så att de ligger på mobilklippet, med de första 18 rutorna överhoppade (Lennart sitter nästan still där). I tilten är den genererade nöten bortretuscherad och den renderade nöten tar över på samma plats, i samma storlek och ton, och glider över till storleken i 2.1. `LENNART_GEN14=0` ger tillbaka bara mobilklippet. Två prov med Kling 3.0 användes inte (de släppte nöten först efter 2–3 s).
+- **LED-skärmen i mitten av 0.4 (17/11):** i variant D ligger husets 48 delar och LED-skärmen (`E_skarmmodul` ur `elektronik.blend`) i ett rutnät 7 × 7, med skärmen i mittenrutan. Övrig elektronik syns inte. 0.4 börjar därför i hörnet snett nedanför mittenrutan, ett helt antal golvpixlar från mitten, så att golvet i 0.3 ser likadant ut. Skärmen vaknar när kameran är som högst (`skarm-vantar.png`), och golvets pixlar runt den tänds i ett mjukt sken (`HALO_G` i golvmaterialet). Kameran sjunker med logaritmisk höjd, i jämn upplevd fart, och landar på skärmens mörka pixlar under texten, i samma läge som 0.5 börjar.
+- **Korten i 1.2 (17/11):** `verktyg/tre_rutor.py` bygger 1.2 av de tre mobilklippen som kort med rundade hörn, skugga och tunn ljus kant. Bakgrunden är det oskarpa mittenklippet i filmens blågröna ton. Klippen och tiderna är desamma som förut (0 / 1,52 / 2,56 s), och ljudmixen har ett mjukt klick per kort. Kör: `<blender-python> film/verktyg/tre_rutor.py storyboard/clips/1_2.mp4 <gamla 1_2.mp4 för ljudet>`.
 - **Varianter av 0.3 (prov 17/11):** `LENNART_03` i `oppning.py` väljer K (nuvarande genomskärning med glashuset, i filmen), S (snittet: rakt från sidan utan perspektiv, bara mekaniken, snittskraffering på snittytorna), M (makro med fartramp: kort skärpedjup, slowmotion när nöten släpper ur hjulet) eller H (kameran rullar med doseringshjulet). Varianterna renderas med rörelseoskärpa. I M ändras mekanikens tajming, så ljudeffekterna behöver flyttas om den väljs. Marcus valde H (17/11), som nu är förvalt och ligger i filmen. I H är glaset och bakgrunden gröna som skärmen. Det osynliga klippet (`OVERG`) gäller bara när H och D används tillsammans. Första rutan i 0.3 renderas utan rörelseoskärpa, eftersom 0.2 annars blandades in.
 - **Varianter av 0.4 (prov 17/11):** `LENNART_04` i `oppning.py` väljer K (byggsatsen, i filmen), A (en lång linje som slutar genom stommen och ner i ramen), B (byggsatsen, slutar på LED-skärmen som tänds), C (ovanifrån), D (golvet är en släckt LED-skärm, kameran dyker in i pixlarna) eller E (en grön skanning). Marcus valde D (17/11), som nu är förvalt och ligger i filmen. Byggsatsen i grupper (K) och elektroniken används bara av varianterna K, B och E; D visar husets 48 delar utan elektroniken.
 - **Nötterna:** platserna räknas fram mot modellens riktiga form (`verktyg/notmagasin.py`, `verktyg/notfat.py`).

diff --git a/TOKENS.md b/TOKENS.md
@@ -19,7 +19,7 @@ Metoden anger hur siffran togs fram: *exakt* (avläst i verktyget) eller *uppska
 | 2026-11-15 (kväll, livebild) | Publik livebild på lennart.cam (bilder bara när någon tittar), adminvy bakom inloggning med inställningar och av-knapp, Pi-appen skickar 640 × 360 i 2 bilder/s. Testat lokalt och mot riktiga lennart.cam. | ca 5–10 miljoner in, ca 0,08 miljoner ut [osäkert] | Uppskattat: ca 40 modellanrop × 130 000–240 000 tokens kontext. Ut uppskattat ur mängden skriven kod och text. | 0 | Ingen lokal modell användes |
 | 2026-11-15 (kväll, admin) | Felsökning av inloggningen i adminvyn: tolerans för mellanslag och citattecken, fingeravtryck i loggen, test i riktig webbläsare, besökarens adress bakom Cloudflare | ca 3–6 miljoner in, ca 0,03 miljoner ut [osäkert] | Uppskattat: ca 20 modellanrop × 150 000–260 000 tokens kontext | 0 | Ingen lokal modell användes |
 | 2026-11-15 (kväll, rotation och servon) | Kamerans rotation och servostyrning i adminvyn: kommandon och inställningar via Pi:ns väntande anrop, egen drivrutin för PCA9685, kopplingsguide för servona, rättning av dolda bilder i stilmallen. Testat med låtsashårdvara och i Chromium. | ca 6–12 miljoner in, ca 0,1 miljoner ut [osäkert] | Uppskattat: ca 40 modellanrop × 160 000–280 000 tokens kontext. Ut uppskattat ur mängden skriven kod och text. | 0 | Ingen lokal modell användes |
-| 2026-11-14 – 2026-11-17 | Trailern, Claude Code i Claude-appen på Windows (lokal session): storyboard, alla 3D-scener i Blender, Marcus röst bearbetad och lagd mot klippen, musik och ljudeffekter, övergångar, flytt av filmprojektet till repot, övergången från Lennart till planen, vattenstämpeln, inköpen, servonas tajming, byggklippen i monteringen, munstycket i designen, delarna som byggsats i öppningen, ekollonet i titeln, nöten som faller från 1.4 till 2.1, rättelser, varianter av 0.3 och 0.4 och det osynliga klippet mellan dem, släppet i 1.4 genererat med Higgsfield | ca 420,6 miljoner in, varav 417,0 miljoner cacheläsning och 3,7 miljoner cacheskrivning, och 1,55 miljoner ut | Exakt ur sessionsloggen fram till 2026-11-17 10.49 UTC: summan av `usage`-fälten för 1355 modellanrop (Claude Fable 5.2 och Claude Opus 5.5), räknat en gång per svar. Arbetet efter den tidpunkten ingår inte. | ej räknat | Whisper medium kördes lokalt för att skriva ut rösten (ca 2,5 minuter ljud). Whisper räknar inte tokens på samma sätt, och antalet loggades inte. |
+| 2026-11-14 – 2026-11-17 | Trailern, Claude Code i Claude-appen på Windows (lokal session): storyboard, alla 3D-scener i Blender, Marcus röst bearbetad och lagd mot klippen, musik och ljudeffekter, övergångar, flytt av filmprojektet till repot, övergången från Lennart till planen, vattenstämpeln, inköpen, servonas tajming, byggklippen i monteringen, munstycket i designen, delarna som byggsats i öppningen, ekollonet i titeln, nöten som faller från 1.4 till 2.1, rättelser, varianter av 0.3 och 0.4 och det osynliga klippet mellan dem, släppet i 1.4 genererat med Higgsfield, LED-skärmen i mitten av 0.4 och korten i 1.2 | ca 437,0 miljoner in, varav 433,2 miljoner cacheläsning och 3,8 miljoner cacheskrivning, och 1,61 miljoner ut | Exakt ur sessionsloggen fram till 2026-11-17 12.42 UTC: summan av `usage`-fälten för 1435 modellanrop (Claude Fable 5.2 och Claude Opus 5.5), räknat en gång per svar. Arbetet efter den tidpunkten ingår inte. | ej räknat | Whisper medium kördes lokalt för att skriva ut rösten (ca 2,5 minuter ljud). Whisper räknar inte tokens på samma sätt, och antalet loggades inte. |
 | 2026-11-15 | Kort Claude Code-session i samma mapp: försök att snygga till en timelapse av utskriften med Higgsfield [verifiera vad som blev gjort] | ca 7,0 miljoner in, varav 6,9 miljoner cacheläsning, och 0,03 miljoner ut | Exakt ur sessionsloggen: summan av `usage`-fälten för 50 modellanrop (Claude Opus 5.5) | 0 | Ingen lokal modell användes |
 
 ## Utanför tokenräkningen
